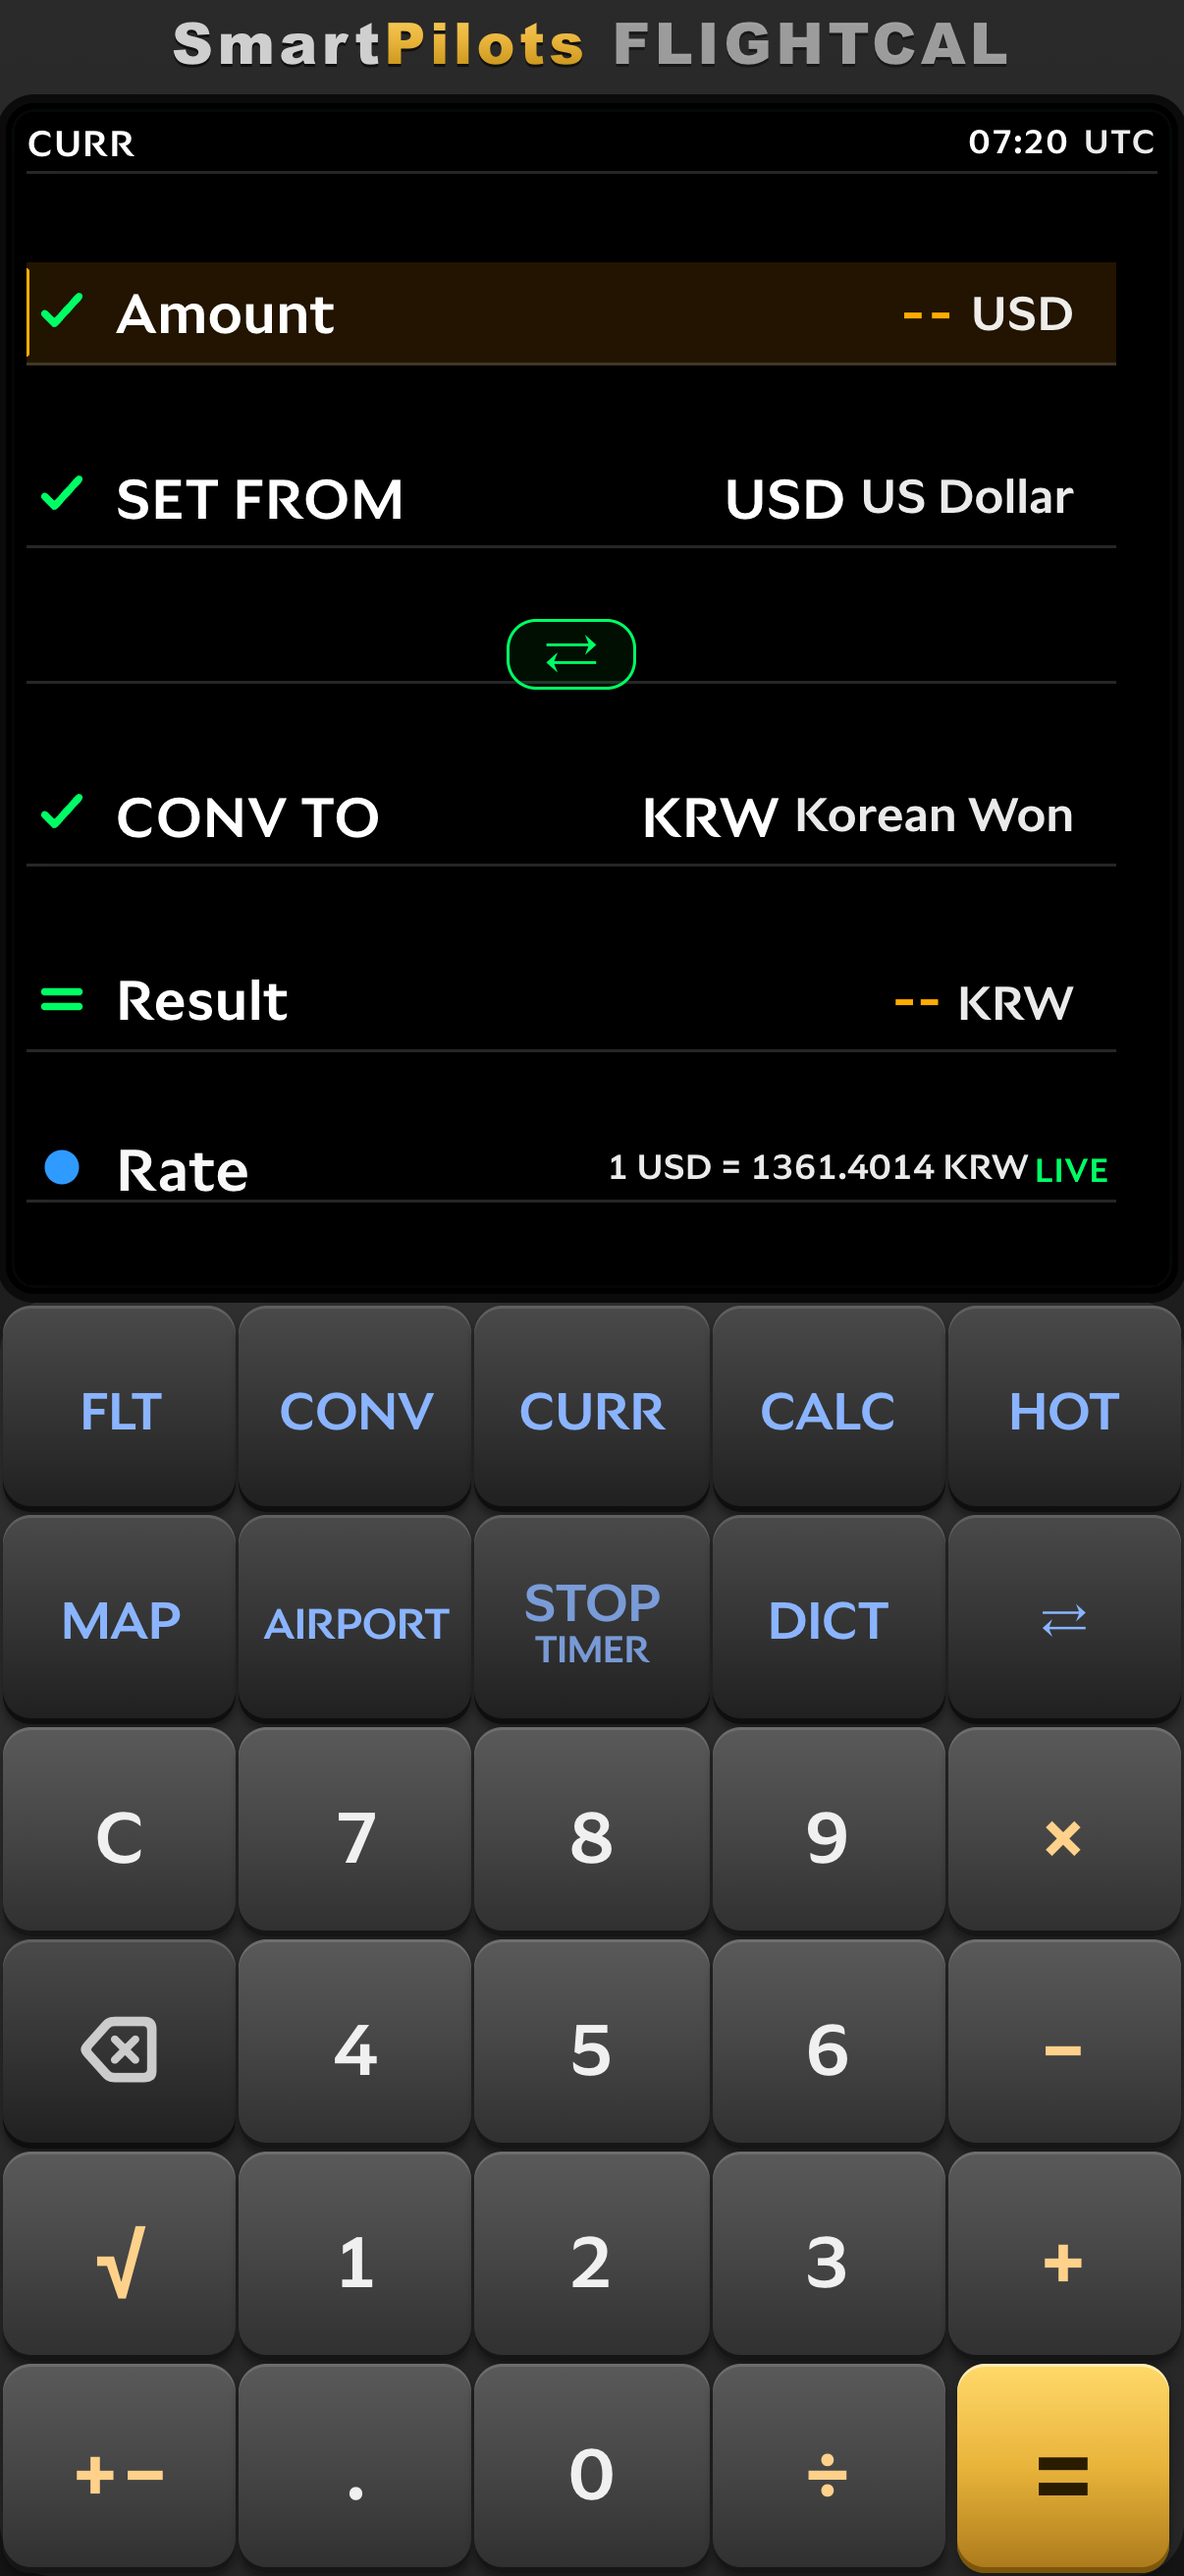
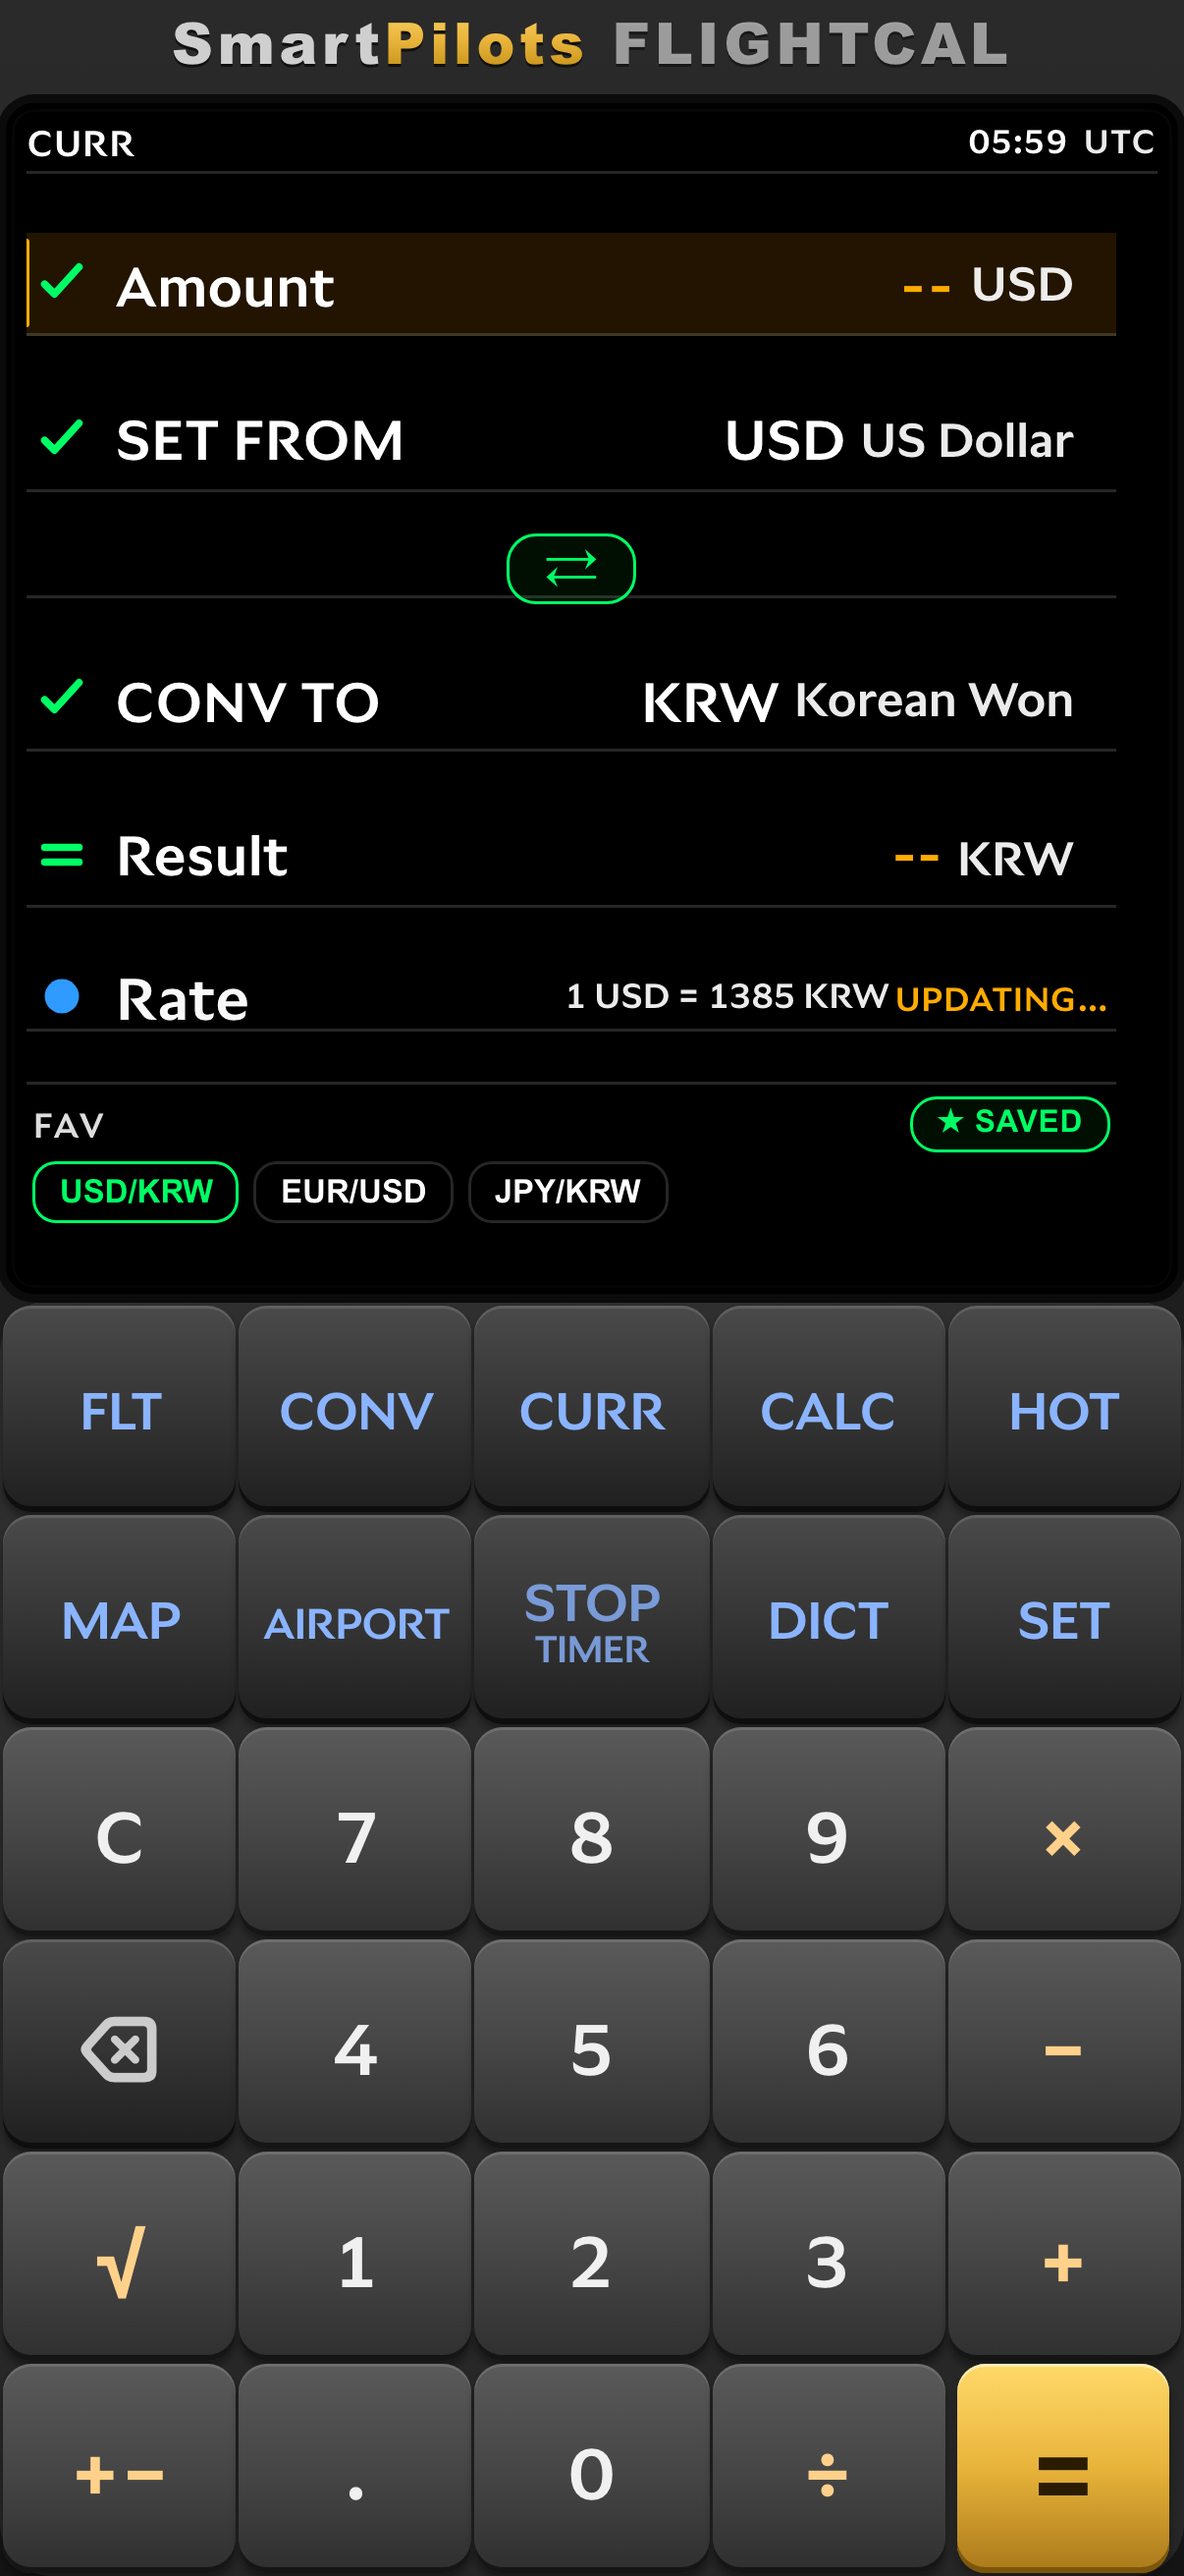
Add files via upload

diff --git a/support.ko.html b/support.ko.html
@@ -219,11 +219,11 @@
 
         <h1>FlightCal 사용 설명서</h1>
         <p class="meta">
-          앱 버전 1.0.21 · build 30
+          앱 버전 1.0.30 · build 40
           <br />
           제공자: SmartPilots
           <br />
-          최종 수정: 2026년 11월 9일
+          최종 수정: 2026년 11월 24일
         </p>
 
         <p>
@@ -330,7 +330,7 @@
               </tr>
               <tr>
                 <td><kbd>CONV</kbd></td>
-                <td>단위 변환 메뉴. 11개 카테고리입니다.</td>
+                <td>단위 변환 메뉴. 12개 카테고리입니다.</td>
               </tr>
               <tr>
                 <td><kbd>CURR</kbd></td>
@@ -542,7 +542,7 @@
         <h2 id="conv">4. CONV — 단위 변환</h2>
         <figure class="shot">
           <img src="shots/conv.png" alt="FlightCal 단위 변환 메뉴" loading="lazy" />
-          <figcaption>11개 변환 카테고리. 카테고리마다 마지막 결과를 기억합니다.</figcaption>
+          <figcaption>12개 변환 카테고리. 카테고리마다 마지막 결과를 기억합니다.</figcaption>
         </figure>
         <p>
           카테고리를 고르면 변환 화면에 네 줄이 나옵니다. 입력값, <strong>SET UNIT</strong> 줄,
@@ -615,6 +615,11 @@
                 <td>시간대 간 현지 시각 변환</td>
                 <td>—</td>
               </tr>
+              <tr>
+                <td>Coordinate</td>
+                <td>DD, DDM, DMS, ARINC 424, FMS, UTM, MGRS</td>
+                <td>—</td>
+              </tr>
             </tbody>
           </table>
         </div>
@@ -623,12 +628,19 @@
           온도, 무게, 압력, 거리의 기본 조합은 설정에서 고른 단위를 따릅니다. °C와 hPa를 쓰는
           조종사라면 항상 익숙한 쪽에서 변환이 시작됩니다.
         </p>
+        <p>
+          Coordinate는 조종석에서 마주치는 좌표 형식 사이를 변환합니다. 소수 도(DD), 도-소수 분
+          (DDM), 도-분-초(DMS), ARINC 424 / FMS 압축 형식, 그리고 UTM / MGRS 격자 좌표입니다.
+          입력 줄(DD, DDM, DMS, ARINC 424 또는 위도·경도 각각) 가운데 하나에 위치를 입력하면 나머지
+          형식이 한꺼번에 갱신됩니다. FMS, UTM, MGRS는 읽기 전용 결과입니다.
+        </p>
 
         <h2 id="curr">5. CURR — 환율</h2>
         <figure class="shot">
           <img src="shots/curr.png" alt="FlightCal 환율 계산기" loading="lazy" />
           <figcaption>
-            Amount, SET FROM, CONV TO, Result, Rate 다섯 줄. Rate 줄에 시세 상태가 함께 표시됩니다.
+            Amount, SET FROM, CONV TO, Result, Rate 다섯 줄과, 하단에 저장한 통화쌍을 모아 둔 FAV
+            바가 있습니다.
           </figcaption>
         </figure>
         <p>
@@ -675,6 +687,14 @@
             </tbody>
           </table>
         </div>
+
+        <p>
+          다섯 줄 아래의 <strong>FAV</strong> 바에는 자주 쓰는 통화쌍을 모아 둡니다.
+          <kbd>☆ SAVE</kbd> 를 누르면 현재 화면의 통화쌍이 저장되고(최대 4개), 칩을 탭하면 그
+          조합이 한 번에 불러와집니다. 현재 화면의 통화쌍은 강조되고, 저장된 통화쌍은
+          <kbd>★ SAVED</kbd> 로 표시됩니다. 네 개가 모두 차면
+          <code>FAV FULL · MAX 4</code> 로 안내합니다. 저장한 통화쌍은 기기에 보관됩니다.
+        </p>
 
         <p>
           CURR 메뉴에는 자주 쓰는 통화 12개의 프리셋도 있습니다. 선택하면 해당 통화 조합으로
@@ -851,6 +871,13 @@
         </p>
 
         <h2 id="map">9. MAP — 기상 지도</h2>
+        <figure class="shot">
+          <img src="shots/map.png" alt="FlightCal 기상 지도" loading="lazy" />
+          <figcaption>
+            SAT, CLOUD, FCST, WIND, PROG, SIGMET 레이어와 타임라인 슬라이더, 주변 항공기 찾기를
+            제공하는 기상 지도입니다.
+          </figcaption>
+        </figure>
         <p>
           <kbd>MAP</kbd>(<kbd>RADAR</kbd> 키)은 위성 영상과 위험 요소 오버레이를 보여 줍니다. 지도는
           20초마다 자동으로 갱신됩니다.
@@ -872,7 +899,6 @@
                   Himawari-9, Meteosat) 영상으로 대체됩니다.
                 </td>
               </tr>
-              <tr><td>RAIN</td><td>NASA IMERG 30분 전지구 강수율.</td></tr>
               <tr><td>FCST</td><td>ECCC GDPS 전지구 강수 예보(레이더 아님).</td></tr>
               <tr>
                 <td>WIND</td>

diff --git a/support.html b/support.html
@@ -218,11 +218,11 @@
 
         <h1>FlightCal User Guide</h1>
         <p class="meta">
-          App version 1.0.21 · build 30
+          App version 1.0.30 · build 40
           <br />
           Service provider: SmartPilots
           <br />
-          Updated: November 9, 2026
+          Updated: November 24, 2026
         </p>
 
         <p>
@@ -337,7 +337,7 @@
               </tr>
               <tr>
                 <td><kbd>CONV</kbd></td>
-                <td>Unit conversion menu with 11 categories.</td>
+                <td>Unit conversion menu with 12 categories.</td>
               </tr>
               <tr>
                 <td><kbd>CURR</kbd></td>
@@ -553,7 +553,7 @@
         <h2 id="conv">4. CONV — Unit Conversion</h2>
         <figure class="shot">
           <img src="shots/conv.png" alt="FlightCal unit conversion menu" loading="lazy" />
-          <figcaption>Eleven conversion categories, each remembering its last result.</figcaption>
+          <figcaption>Twelve conversion categories, each remembering its last result.</figcaption>
         </figure>
         <p>
           Choose a category and the conversion screen shows four lines: the value you type, the
@@ -628,6 +628,11 @@
                 <td>Local time conversion between zones</td>
                 <td>—</td>
               </tr>
+              <tr>
+                <td>Coordinate</td>
+                <td>DD, DDM, DMS, ARINC 424, FMS, UTM, MGRS</td>
+                <td>—</td>
+              </tr>
             </tbody>
           </table>
         </div>
@@ -636,12 +641,20 @@
           The default pair for temperature, weight, pressure and length follows the units chosen in
           Settings, so a pilot working in °C and hPa always starts from the familiar side.
         </p>
+        <p>
+          Coordinate converts a position between the formats pilots meet in the cockpit: decimal
+          degrees, degrees-decimal minutes, degrees-minutes-seconds, the packed ARINC 424 / FMS
+          form, and the UTM / MGRS grid references. Type the position into any input line — DD, DDM,
+          DMS, ARINC 424, or separate latitude and longitude — and every other format updates at
+          once. FMS, UTM and MGRS are read-only results.
+        </p>
 
         <h2 id="curr">5. CURR — Currency</h2>
         <figure class="shot">
           <img src="shots/curr.png" alt="FlightCal currency converter" loading="lazy" />
           <figcaption>
-            Amount, SET FROM, CONV TO, Result and Rate — the rate line shows how fresh the quote is.
+            Amount, SET FROM, CONV TO, Result and Rate, with the FAV bar for saved pairs at the
+            bottom.
           </figcaption>
         </figure>
         <p>
@@ -690,6 +703,14 @@
             </tbody>
           </table>
         </div>
+
+        <p>
+          Below the five lines a <strong>FAV</strong> bar keeps the currency pairs you use most.
+          Press <kbd>☆ SAVE</kbd> to store the pair on screen (up to 4 pairs) and tap a chip to load
+          it again in one step; the pair currently on screen is highlighted and a saved pair reads
+          <kbd>★ SAVED</kbd>. When the bar is full the label shows
+          <code>FAV FULL · MAX 4</code>. Saved pairs are kept on the device.
+        </p>
 
         <p>
           The CURR menu also lists 12 frequently used currency presets, which open the converter
@@ -877,6 +898,13 @@
         </p>
 
         <h2 id="map">9. MAP — Weather Map</h2>
+        <figure class="shot">
+          <img src="shots/map.png" alt="FlightCal weather map" loading="lazy" />
+          <figcaption>
+            Weather map with the SAT, CLOUD, FCST, WIND, PROG and SIGMET layers, a timeline
+            slider and the nearby-traffic finder.
+          </figcaption>
+        </figure>
         <p>
           <kbd>MAP</kbd> (the <kbd>RADAR</kbd> key) shows satellite imagery and hazard overlays. The
           map refreshes automatically every 20 seconds.
@@ -898,7 +926,6 @@
                   (GOES-West / East, Himawari-9, Meteosat) as you zoom in.
                 </td>
               </tr>
-              <tr><td>RAIN</td><td>NASA IMERG 30-minute global precipitation rate.</td></tr>
               <tr><td>FCST</td><td>ECCC GDPS global precipitation forecast (not radar).</td></tr>
               <tr>
                 <td>WIND</td>

diff --git a/index.html b/index.html
@@ -98,6 +98,22 @@
         font-size: 0.95em;
       }
 
+      .topnav {
+        display: flex;
+        flex-wrap: wrap;
+        gap: 8px;
+        justify-content: flex-end;
+        margin-bottom: 16px;
+        font-size: 0.9rem;
+      }
+
+      .topnav a {
+        border: 1px solid var(--line);
+        border-radius: 999px;
+        padding: 4px 12px;
+        text-decoration: none;
+      }
+
       .footer {
         margin-top: 28px;
         padding-top: 18px;
@@ -108,6 +124,11 @@
   <body>
     <main class="wrap">
       <section class="card">
+        <nav class="topnav">
+          <a href="support.html">User Manual</a>
+          <a href="support.ko.html" lang="ko">한국어 설명서</a>
+        </nav>
+
         <h1>FlightCal Privacy Policy</h1>
         <p class="meta">
           Effective date: October 31, 2026
